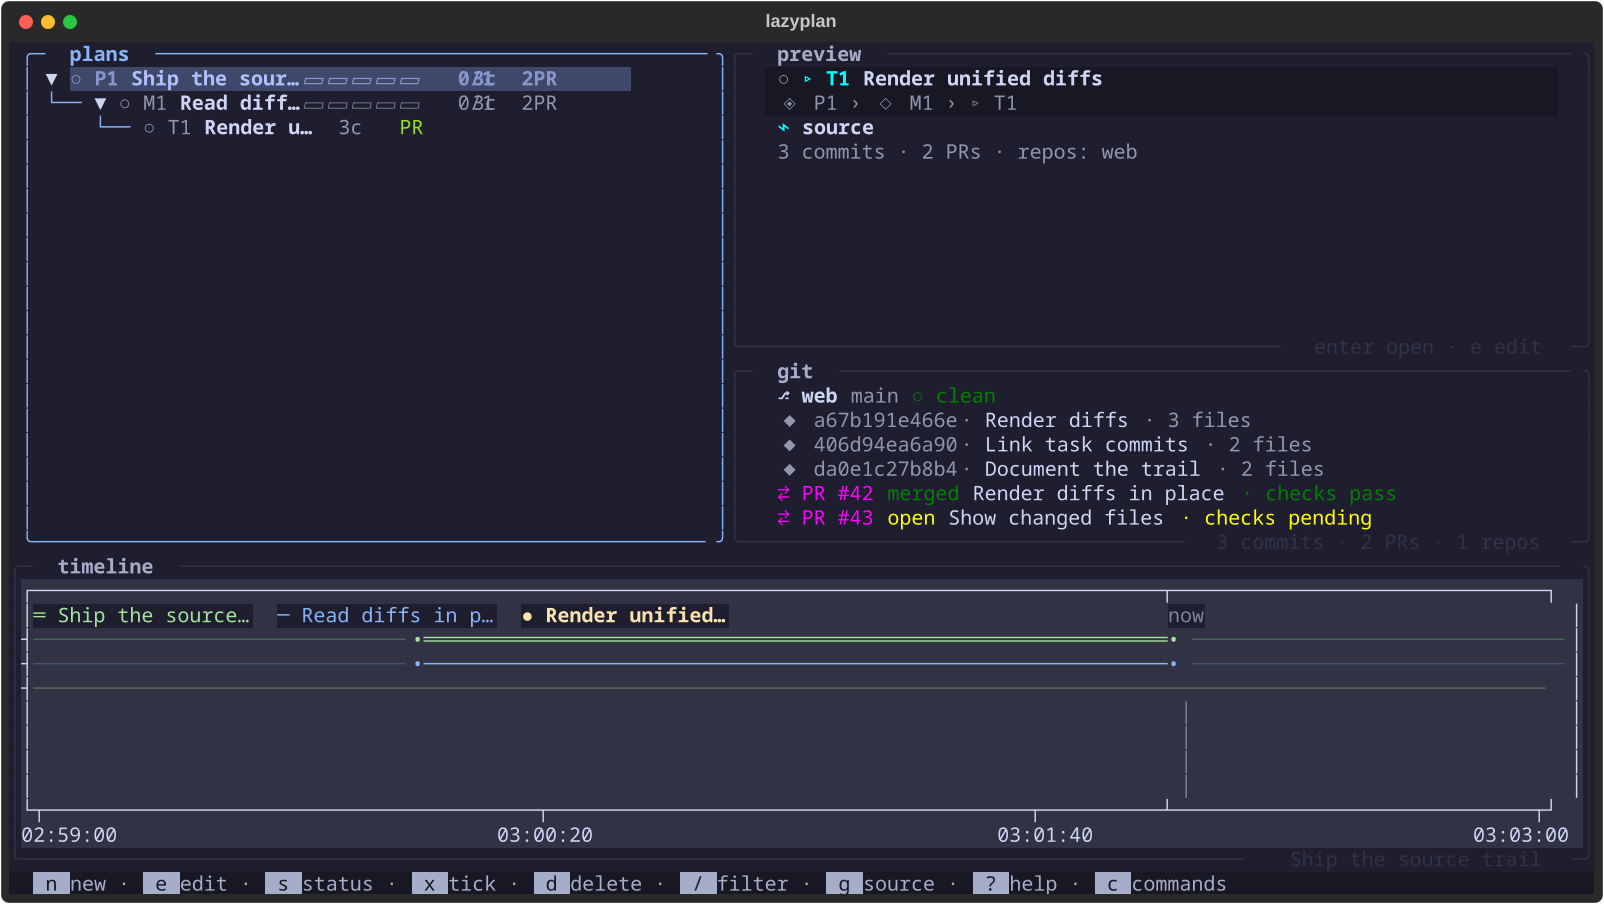
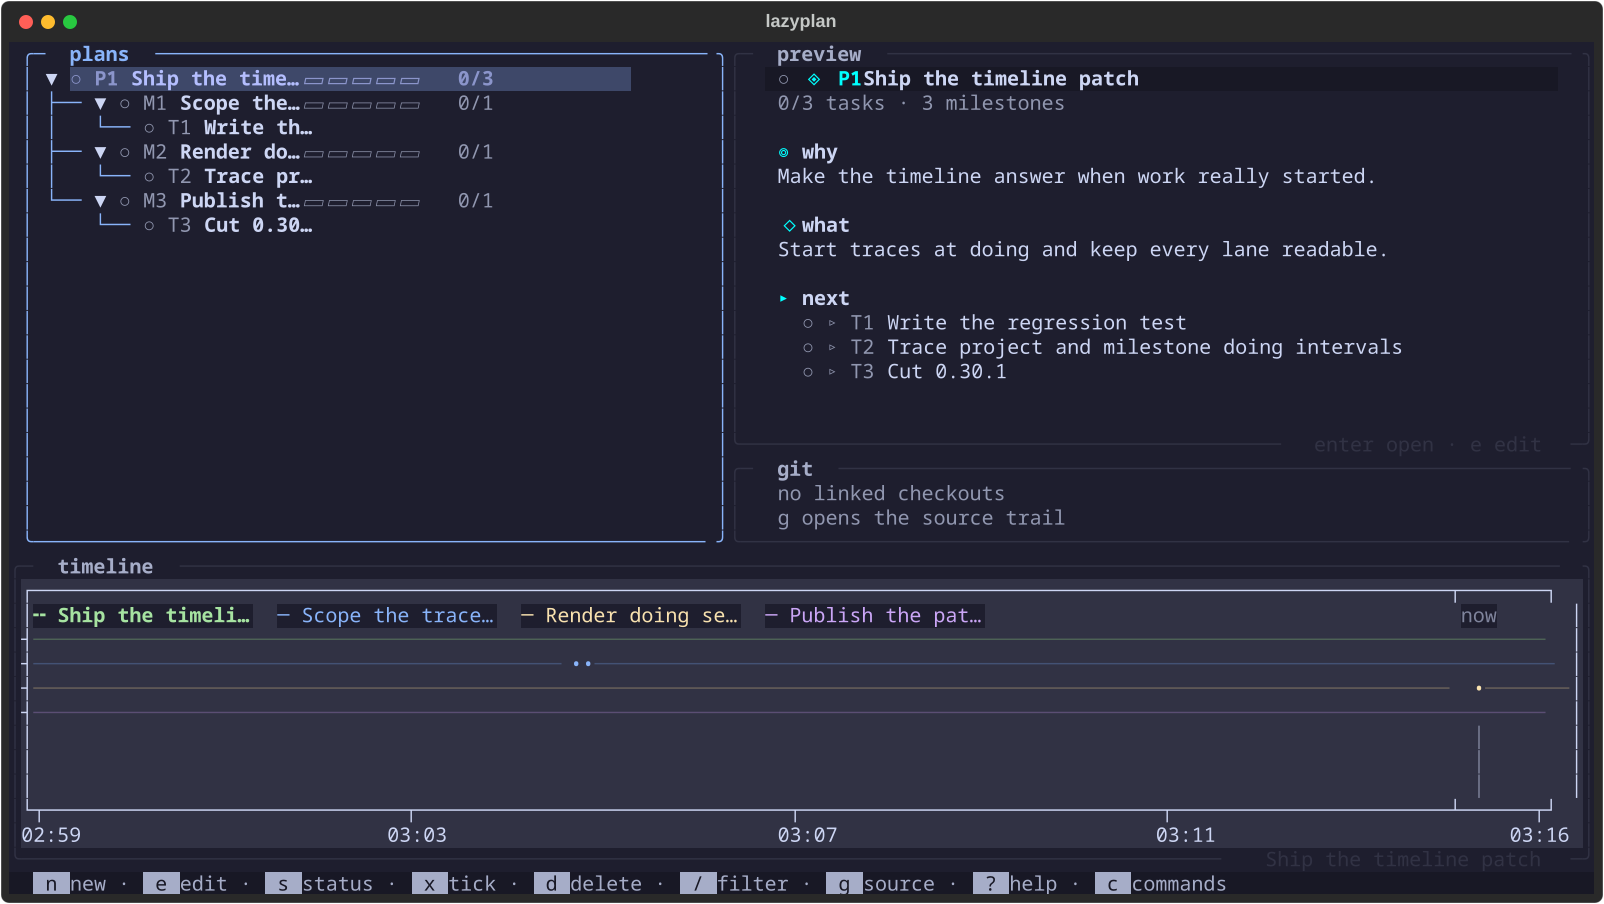
site: refresh the 0.30.1 timeline screenshot

diff --git a/site/index.html b/site/index.html
@@ -328,7 +328,7 @@ Task · Add the token model        done</pre>
     <figure class="m-0">
       <picture>
         <source srcset="./screens/lpui-timeline.webp" type="image/webp">
-        <img src="./screens/lpui-timeline.png" width="1604" height="904" loading="lazy" decoding="async" alt="Main shell with a task selected, showing the timeline card's project, milestone, and task lanes with the scoped plan in its border." class="block h-auto w-full rounded-xl border border-plan-border">
+        <img src="./screens/lpui-timeline.png" width="1604" height="904" loading="lazy" decoding="async" alt="Main shell with sequential milestones selected, showing doing-only timeline traces at distinct start positions and one never-started lane." class="block h-auto w-full rounded-xl border border-plan-border">
       </picture>
       <figcaption class="mt-2 text-sm text-zinc-400">Every lane stays visible; the scoped plan names the card.</figcaption>
     </figure>

diff --git a/tools/capture-screens.py b/tools/capture-screens.py
@@ -157,6 +157,32 @@ def build_source_fixture(tmp: Path) -> Store:
     return store
 
 
+def build_timeline_fixture(tmp: Path) -> Store:
+    """Sequential milestones with doing intervals, a pause, and untouched work."""
+    store = Store(str(tmp / "plan.db"))
+    plan = store.add_plan(
+        "Ship the timeline patch",
+        "Start traces at doing and keep every lane readable.",
+        goal="Make the timeline answer when work really started.",
+    )
+    first = store.add_milestone(plan.id, "Scope the trace fix")
+    second = store.add_milestone(plan.id, "Render doing segments")
+    third = store.add_milestone(plan.id, "Publish the patch")
+    store.add_task(first.id, "Write the regression test")
+    store.add_task(second.id, "Trace project and milestone doing intervals")
+    store.add_task(third.id, "Cut 0.30.1")
+
+    def at(stamp: float, action: Callable[[], object]) -> object:
+        with mock.patch("lazyplan.store.base.time.time", return_value=stamp):
+            return action()
+
+    at(STAMP + 300, lambda: services.set_status(store, "milestone", first.id, Status.DOING))
+    at(STAMP + 600, lambda: services.set_status(store, "milestone", first.id, Status.DONE))
+    at(STAMP + 900, lambda: services.set_status(store, "milestone", second.id, Status.DOING))
+    at(STAMP + 1_200, lambda: services.set_status(store, "milestone", second.id, Status.DONE))
+    return store
+
+
 def build_coordination_fixture(tmp: Path) -> Store:
     """A journal with active and expired claims, a block, aging, gaps, and red checks."""
     store = Store(str(tmp / "plan.db"))
@@ -352,24 +378,22 @@ async def capture_theme_latte(store: Store, target: Path) -> None:
 
 
 async def capture_timeline(store: Store, target: Path) -> None:
-    """Capture the shell with a task selected so the timeline shows its lanes."""
-    task_id = _task_id(store, "Render unified diffs")
+    """Capture the shell with a plan selected so every milestone lane is visible."""
     app = create_app(str(store.path))
     async with app.run_test(size=SIZE) as pilot:
         await pilot.pause()
         tree = app.query_one("#tree", Tree)
         _expand_all(tree)
         tree.focus()
-        selected = next(
-            (
-                node
-                for node in _nodes(tree, "task")
-                if getattr(node, "data", {}).get("id") == task_id
-            ),
-            None,
-        )
-        if selected is not None:
-            tree.select_node(selected)
+        plans = _nodes(tree, "plan")
+        if plans:
+            tree.select_node(plans[0])
+            await pilot.pause()
+            plans = _nodes(tree, "plan")
+            if plans:
+                plans[0].expand()
+                for milestone in plans[0].children:
+                    milestone.expand()
         await pilot.pause(0.5)
         app.save_screenshot(str(target))
 
@@ -603,9 +627,9 @@ SCENES: dict[str, Scene] = {
     ),
     "lpui-timeline": Scene(
         SIZE,
-        build_source_fixture,
+        build_timeline_fixture,
         capture_timeline,
-        "lazyplan main shell with a plan selected, showing the timeline card's project, milestone, and task lanes with the scoped plan name in its border.",
+        "lazyplan main shell with sequential milestones selected, showing doing-only timeline traces at distinct start positions and one never-started lane.",
     ),
     "lpui-detail": Scene(
         SIZE,
